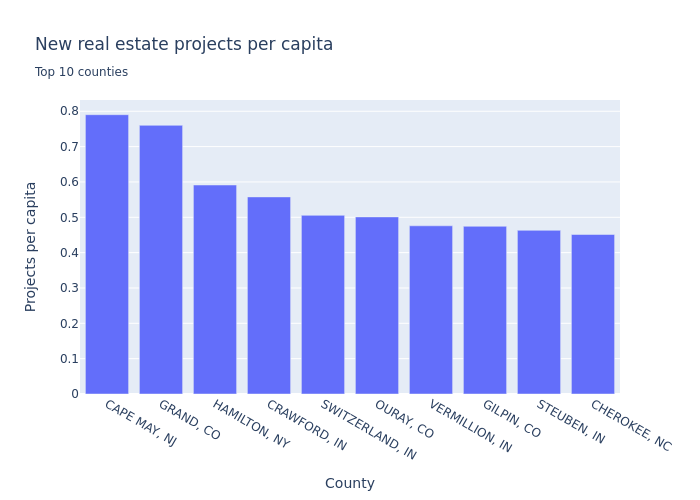
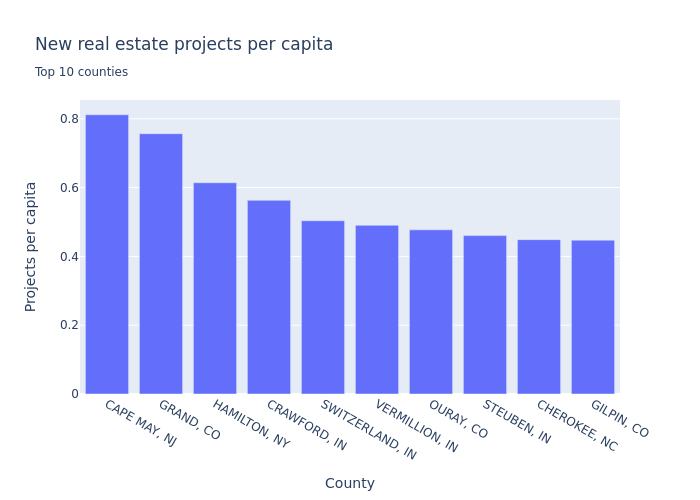
Regenerate the Markdown document with images

diff --git a/nimby-vs-yimby/README.md b/nimby-vs-yimby/README.md
@@ -25,7 +25,11 @@ Property sales data was primarily sourced from official county institution websi
 
 We believe that data analysis should be reproducible. Reproducibility of data science requires two pillars: open data and free, open software. In this particular case, open data requirement is fullfilled by `us-housing-prices-v2` database, hosted on DoltHub. The latter requirement is fullfilled by Dolt DBMS and a Pythonic data science environment based on Jupyter. We did the heavy lifting of tabular data with Pandas library. To establish a connection between Dolt running in server mode and Pandas we used MySQL connector Python module with SQLAlchemy (Dolt is compatible-enough with MySQL for this to work). Plotly was used to visualise county-level data on interactive map view. Some supporting geospatial data was downloaded with Python `requests` module.
 
-We are utilizing [US counties dataset](https://www.openintro.org/data/index.php?data=county_complete) provided by OpenIntro to enrich data scraped during the bounty with population and land area numbers so that we could compute per capita and per area values. Once that is done, we are ready to crunch the numbers.
+To compute per capita and per area numbers we are enriching the data scraped during the bounty with the following:
+* [US counties dataset](https://www.openintro.org/data/index.php?data=county_complete) provided by OpenIntro for county land area values
+* [US Census Population Estimate 2010-2020](https://www2.census.gov/programs-surveys/popest/datasets/2010-2020/counties/totals/co-est2020.csv) dataset for county population values within 2010s.
+
+Once that is done, we are ready to crunch the numbers.
 
 ## Crunching the numbers
 
@@ -76,7 +80,7 @@ def fix_fips(fips):
 buf = StringIO(resp.text)
 
 df_counties = pd.read_csv(buf, dtype={'fips': str})
-df_counties = df_counties[["fips", "state", "name", "pop2010", "area_2010", "density_2010"]]
+df_counties = df_counties[["fips", "state", "name", "area_2010"]]
 df_counties = df_counties.rename(columns={'name': 'county'})
 df_counties['county'] = df_counties['county'].apply(cleanup_county)
 df_counties['fips'] = df_counties['fips'].apply(fix_fips)
@@ -98,6 +102,27 @@ df_counties.loc[df_counties['fips'] == "51600", "county_state"] = "FAIRFAX CITY,
 df_counties.loc[df_counties['fips'] == "24510", "county_state"] = "BALTIMORE CITY, MD"
 df_counties.to_csv("counties.csv")
 
+df_census_pop_raw = pd.read_csv("https://www2.census.gov/programs-surveys/popest/datasets/2010-2020/counties/totals/co-est2020.csv", 
+                                encoding="latin-1", dtype={"STATE": str, "COUNTY": str})
+
+est_pop_columns = [ "POPESTIMATE{}".format(year) for year in range(2010, 2020)]
+
+df_county_pop = pd.DataFrame(df_census_pop_raw[["STATE", "COUNTY", "STNAME", "CTYNAME"] + est_pop_columns])
+col = df_county_pop.loc[:, "POPESTIMATE2010":"POPESTIMATE2019"]
+df_county_pop['population'] = col.mean(axis=1)
+df_county_pop['fips'] = df_county_pop['STATE'] + df_county_pop['COUNTY']
+df_county_pop['CTYNAME'] = df_county_pop['CTYNAME'].apply(cleanup_county)
+del df_county_pop['STATE']
+df_county_pop = df_county_pop.rename(columns={'STNAME': 'state'})
+df_county_pop = pd.merge(df_county_pop, states_df, on='state')
+df_county_pop['county_state'] = df_county_pop['CTYNAME'] + ', ' + df_county_pop['code'] 
+df_county_pop = df_county_pop[["fips", "county_state", "population"]]
+
+df_counties = pd.merge(df_counties, df_county_pop, on='fips')
+df_counties = df_counties.rename(columns={'county_state_x': 'county_state'})
+df_counties = df_counties[["fips", "county_state", "population", "area_2010"]]
+df_counties['density'] = df_counties["population"]  / df_counties["area_2010"]
+
 query = """
 SELECT a.*
 FROM `sales` a
@@ -112,6 +137,7 @@ WHERE b.first_sale_datetime > \"2009-06-30\" AND b.first_sale_datetime < \"2020-
 
 raw_count_df = pd.read_sql(query, db_connection)
 raw_count_df.to_csv("~/raw.csv")
+
 result_df = pd.DataFrame(raw_count_df)
 result_df = result_df[['state', 'property_county', 'sale_datetime', 'property_id']]
 result_df = result_df.rename(columns={'property_county': 'county', 'state':'code'})
@@ -130,7 +156,7 @@ df_counts_by_county = df_counts_by_county.sort_values('n', ascending=False)
 
 df_counts_by_county = pd.merge(df_counts_by_county, df_counties, on='county_state')
 
-df_counts_by_county['per_capita'] = df_counts_by_county['n'] / df_counts_by_county['pop2010']
+df_counts_by_county['per_capita'] = df_counts_by_county['n'] / df_counts_by_county['population']
 df_counts_by_county['per_area'] = df_counts_by_county['n'] / df_counts_by_county['area_2010']
 
 per_capita_mean = float(df_counts_by_county['per_capita'].mean())
@@ -149,7 +175,7 @@ df_counts_by_county.to_csv("~/counts.csv")
 
 The above code computed a Pandas data frame with the following fields for each country:
 * `n` - absolute number of new real estate projects (number of initial sale records).
-* `per_capita` - `n` divided by population of the county (for year 2010).
+* `per_capita` - `n` divided by population of the county (average across 2010s).
 * `per_area` - `n` divided by land area of the county (in square miles).
 * `per_capita_stdevs_from_mean` - how many standard deviations is `per_capita` away from the mean value of entire data we're looking into
 * `per_area_stdevs_from_mean` - equivalent of `per_capita` for `per_area` value.]
